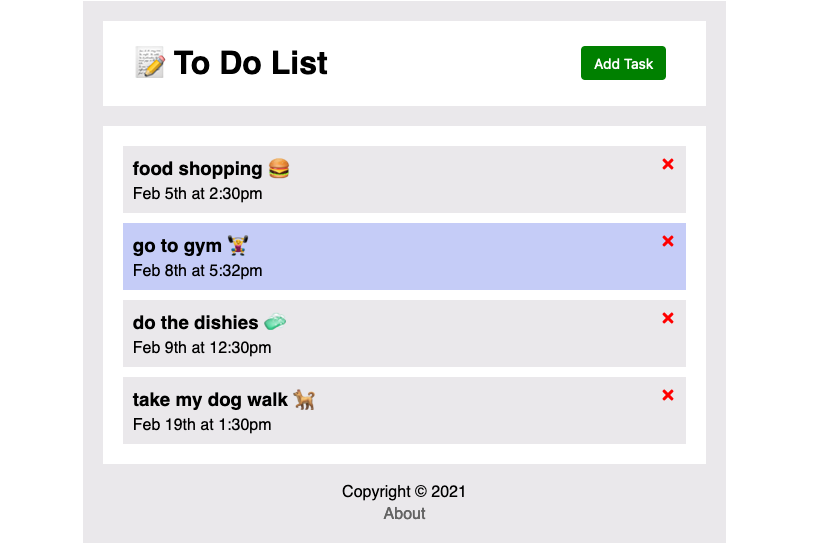
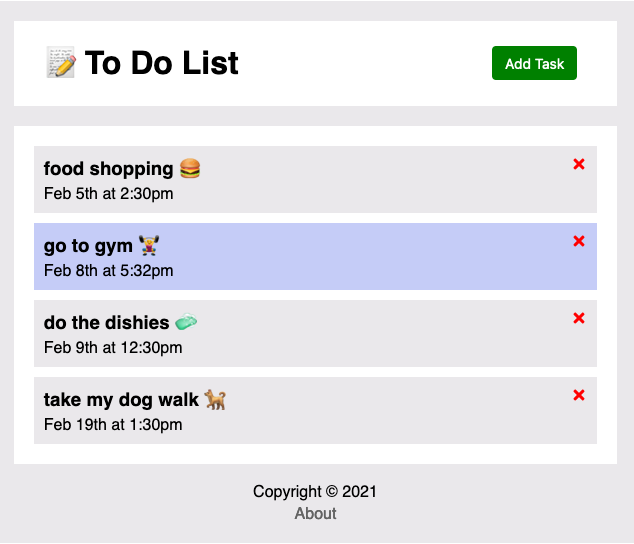
styling responsive app 1

diff --git a/styles/style.css b/styles/style.css
@@ -174,8 +174,9 @@ a:hover {
 }
 
 .section {
-  margin-right: 100px;
-  padding: 100px 170px;
+  width: 80%;
+  margin: auto;
+  padding: 100px 0;
   display: -webkit-box;
   display: -ms-flexbox;
   display: flex;
@@ -327,12 +328,18 @@ a:hover {
 }
 
 .footer__links {
-  margin-right: 5rem;
+  width: 28.125rem;
+  display: -webkit-box;
+  display: -ms-flexbox;
+  display: flex;
+  -webkit-box-pack: justify;
+      -ms-flex-pack: justify;
+          justify-content: space-between;
   margin-bottom: 30px;
+  margin-right: 5rem;
 }
 
 .footer__links--highlight {
-  margin-right: 3rem;
   text-decoration: none;
 }
 
@@ -350,5 +357,11 @@ a:hover {
   opacity: 1;
   -webkit-transform: translateY(0);
           transform: translateY(0);
+}
+
+@media screen and (max-width: 1240px) {
+  .project img {
+    width: 350px;
+  }
 }
 /*# sourceMappingURL=style.css.map */

diff --git a/styles/style.scss b/styles/style.scss
@@ -123,8 +123,10 @@ a:hover {
 }
 
 .section {
-  margin-right: 100px;
-  padding: 100px 170px;
+  width: 80%;
+  margin: auto;
+  // margin-right: 100px;
+  padding: 100px 0;
   display: flex;
   justify-content: center;
   &__title {
@@ -243,10 +245,13 @@ a:hover {
     }
   }
   &__links {
-    margin-right: 5rem;
+    width: 28.125rem;
+    display: flex;
+    justify-content: space-between;
     margin-bottom: 30px;
+    margin-right: 5rem;
+
     &--highlight {
-      margin-right: 3rem;
       text-decoration: none;
     }
   }
@@ -261,4 +266,12 @@ a:hover {
 .fade-in.appear {
   opacity: 1;
   transform: translateY(0);
+}
+
+@media screen and (max-width: 1240px) {
+  .project {
+    img {
+      width: 350px;
+    }
+  }
 }

diff --git a/js/main.js b/js/main.js
@@ -7,7 +7,7 @@ const themeEmoji = document.querySelector(".toggle__img");
 window.addEventListener("load", (e) => {
   const currentDate = new Date();
   const onlyTime = currentDate.getHours();
-  if (onlyTime > 8 && onlyTime < 17) {
+  if (onlyTime > 8 && onlyTime < 18) {
     theme.href = "./styles/light-theme.css";
     themeEmoji.src = "./img/emojis/full-moon-face_1f31d.png";
   } else {

diff --git a/styles/light-theme.scss b/styles/light-theme.scss
@@ -1,4 +1,4 @@
-$light-background: #fff;
+$light-background: rgb(226, 226, 226);
 $light-font: #000;
 body {
   color: $light-font;

diff --git a/styles/dark-theme.scss b/styles/dark-theme.scss
@@ -1,4 +1,4 @@
-$dark-background: #000;
+$dark-background: rgb(34, 34, 34);
 $dark-font: #fff;
 body {
   color: $dark-font;

diff --git a/styles/dark-theme.css b/styles/dark-theme.css
@@ -1,6 +1,6 @@
 body {
   color: #fff;
-  background: #000;
+  background: #222222;
 }
 
 a {

diff --git a/styles/light-theme.css b/styles/light-theme.css
@@ -1,6 +1,6 @@
 body {
   color: #000;
-  background: #fff;
+  background: #e2e2e2;
 }
 
 a {
